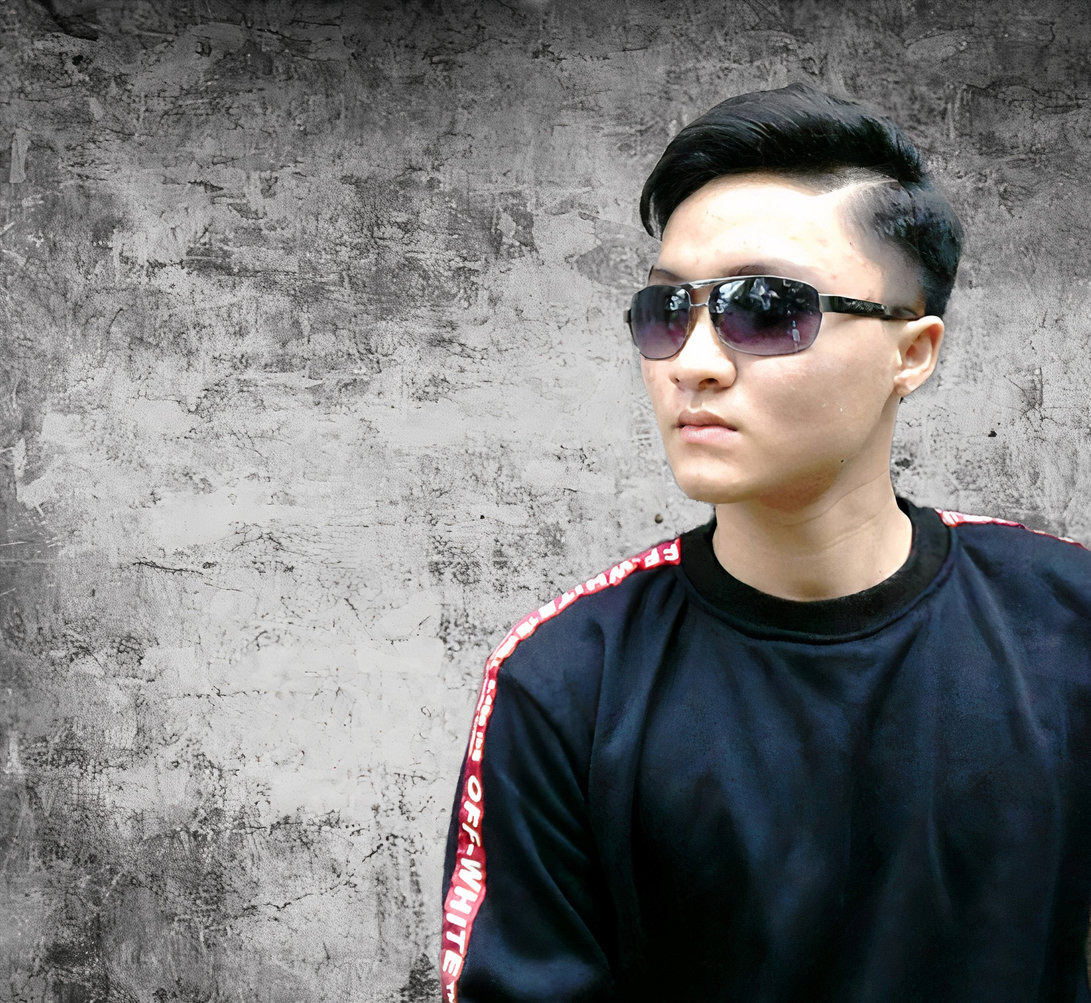
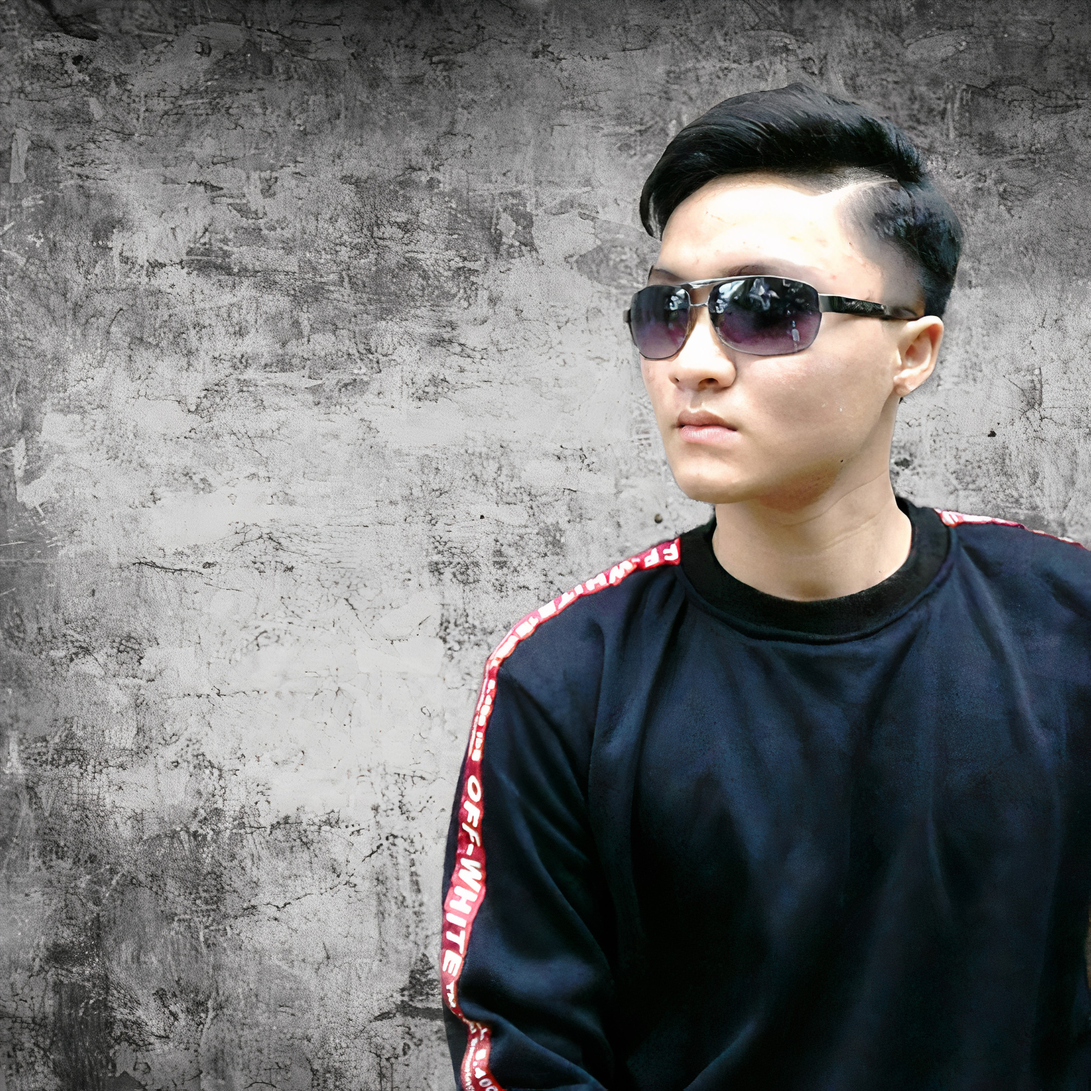
Update UI

diff --git a/index.html b/index.html
@@ -8,7 +8,6 @@
     <link rel="icon" href="./img/favicon.png" />
     <link rel='stylesheet prefetch' href='https://netdna.bootstrapcdn.com/font-awesome/3.2.1/css/font-awesome.css' />
     <script src="https://kit.fontawesome.com/a076d05399.js"></script>
-    <script src="https://code.jquery.com/jquery-3.4.1.js"></script>
     <meta name="viewport" content="width=device-width, initial-scale=1.0">
     <meta property="og:url"                content="https://vangiaurecca.github.io/PersonalBlog/index.html" />
     <meta property="og:type"               content="article" />
@@ -126,7 +125,7 @@
             <div class="avatar">
                 <span>
                     <center>
-                    <img src="./img/avatar.png" alt="" width="205px" height="200px">
+                    <img src="./img/meta_photo.jpg" alt="" width="205px" height="200px" style="border-radius: 100px;">
                     </center>
                 </span>
             </div>
@@ -220,6 +219,7 @@
                 </br>
             </div>
         </div>
+        
         <div class="layout-about-me">
             <div class="text-effect-underline">
                 <span class="item-about-me">ABOUT ME</span>
@@ -379,12 +379,12 @@
                     </div>
                 </div>
             </div>
-            <br></br>
+            <!-- <br></br>
             <div class="text-effect-underline">
                 <span class="item-about-me">REVIEWS</span>
                 <div class="underline"></div>
-            </div>
-            <div class="stars">
+            </div> -->
+            <!-- <div class="stars">
                 <form action="">
                     <input class="star star-5" id="star-5" type="radio" name="star" />
                     <label class="star star-5" for="star-5"></label>
@@ -397,7 +397,7 @@
                     <input class="star star-1" id="star-1" type="radio" name="star" />
                     <label class="star star-1" for="star-1"></label>
                 </form>
-            </div>
+            </div> -->
         </div>
     </div>
 
@@ -560,6 +560,7 @@
         </div>
     </div>
 
+
     <!-- FOOTER -->
     <footer class="final">
         <p class="copyright">
@@ -571,6 +572,7 @@
             <button class="back-to-top">Back to the top ▲</button>
         </center>
     </footer>
+    
   
     <!-- JAVASCRIPT -->
     <script src="./js/hieu_ung_chu.js"></script>

diff --git a/css/style.css b/css/style.css
@@ -179,7 +179,7 @@ h2 {font-size: 2rem;}
 
 .layout-information {
   width: 100%;
-  height: 1100px;
+  height: 900px;
   background-color: rgb(198, 244, 255);
   margin-bottom: 1280px;
   margin-top: 170px;
@@ -190,7 +190,7 @@ h2 {font-size: 2rem;}
 
 .layout-profile {
   width: 30%;
-  height: 1000px;
+  height: 800px;
   margin: auto auto;
   box-shadow: -1px -2px 3px rgb(51, 3, 3);
   background-color: whitesmoke;
@@ -198,7 +198,7 @@ h2 {font-size: 2rem;}
 
 .layout-about-me {
   width: 60%;
-  height: 1000px;
+  height: 800px;
   margin: auto auto;
   box-shadow: 1px -2px 3px rgb(51, 3, 3);
   background-color: whitesmoke;
@@ -292,7 +292,7 @@ h2 {font-size: 2rem;}
 .introduce-yourself {
   margin-left: 20px;
   margin-right: 20px;
-  font-size: 25px;
+  font-size: 20px;
   text-align: justify;
 }
 
@@ -438,7 +438,7 @@ h2 {font-size: 2rem;}
     margin: 1200px auto -10px auto;
     width: 100%;
   }
-  .introduce-yourself {font-size: 20px;}
+  .introduce-yourself {font-size: 18px;}
   .percent {margin-right: -220px;}
   .menu-header ul {display: none;}
   .show-menu {

diff --git a/js/scroll_page.js b/js/scroll_page.js
@@ -6,8 +6,6 @@ $(document).ready(function() {
             $('.text-menu').addClass('color-text-menu');
             $('.menu-header').removeClass('list-menu');
             $('.un-sticky').removeClass('un-sticky');
-            
-            
         }
         else {         
             $('.header').removeClass('sticky');
@@ -41,5 +39,5 @@ $(document).ready(function() {
 //Loading effect
 $(window).on('load', function(event) {
 	$('body').removeClass('pre-loading');
-	$('.load').delay(1200).fadeOut('fast');
+	$('.load').delay(300).fadeOut('fast');
 });
